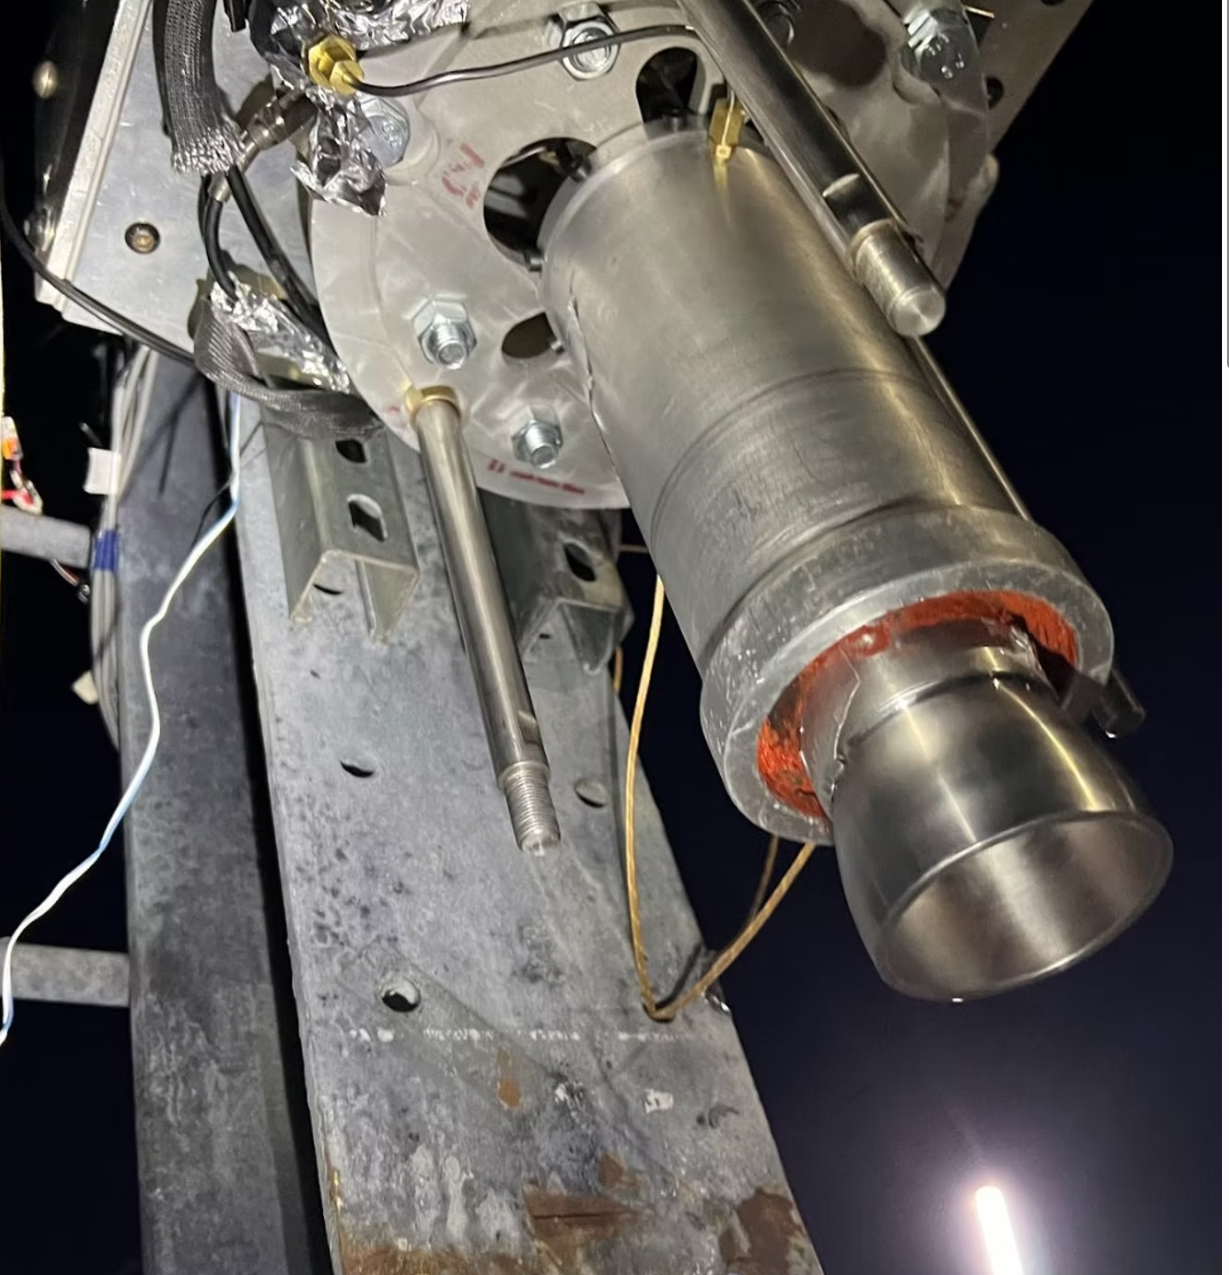
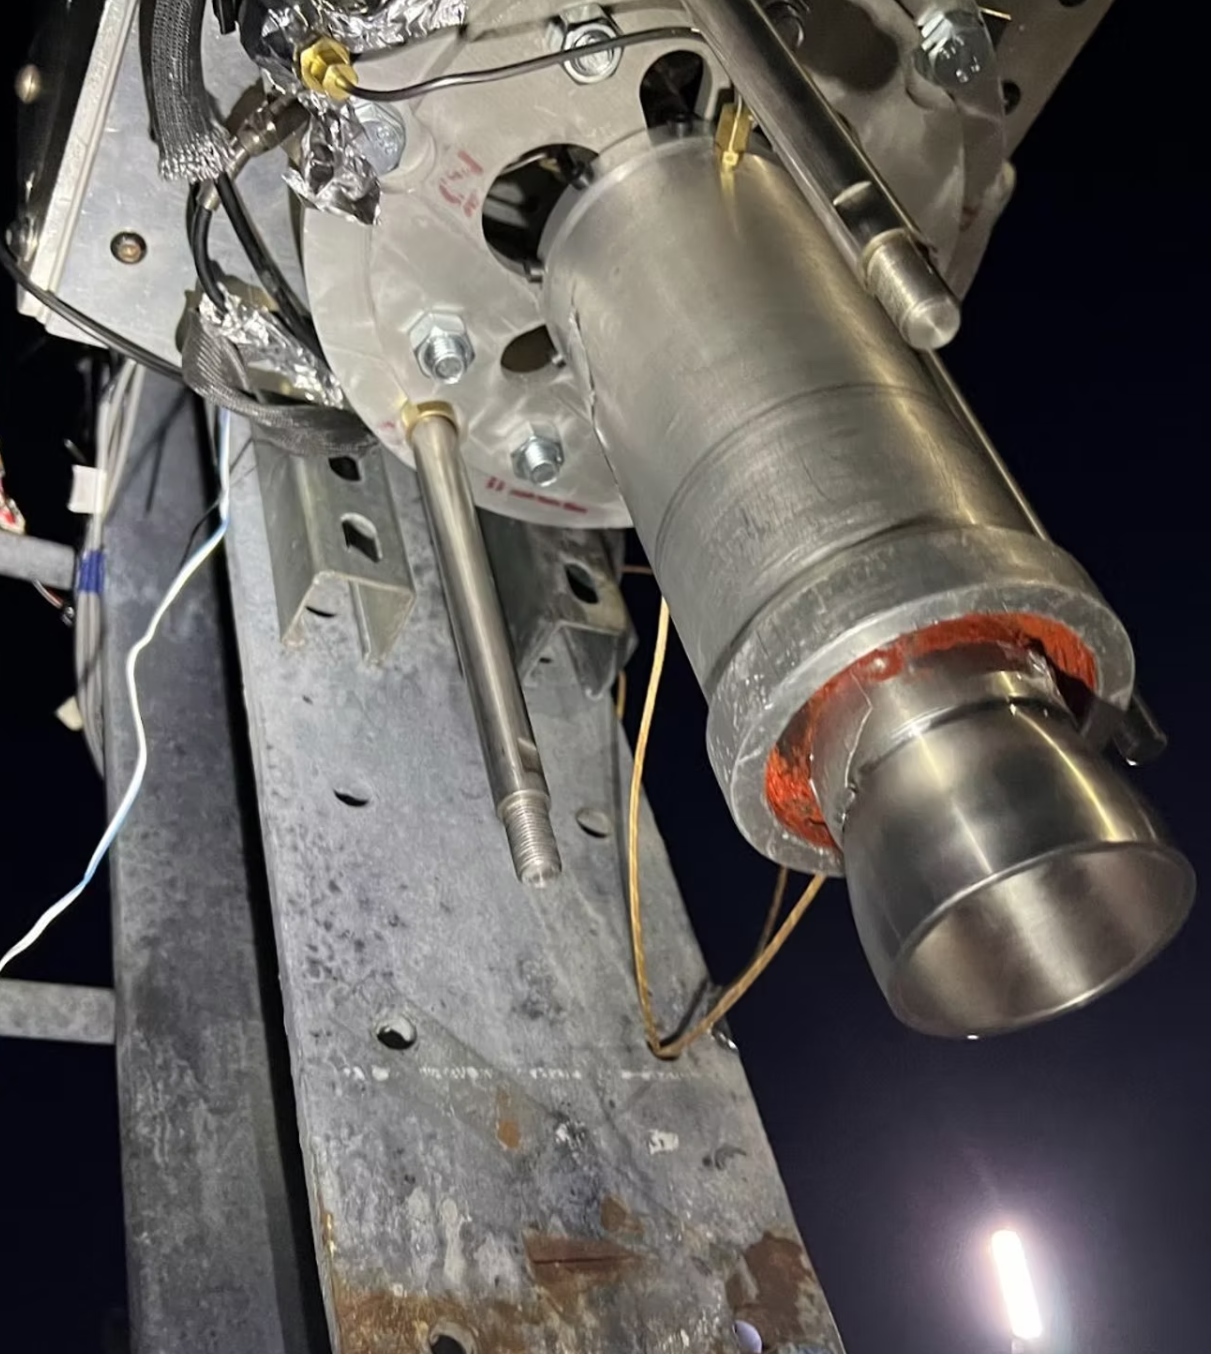
dunk probe pics insert

diff --git a/app/works/projects.ts b/app/works/projects.ts
@@ -328,6 +328,12 @@ export const PROJECTS: Project[] = [
     yearLabel: "2024",
     projectType: "Test Systems & Instrumentation",
     tags: ["Vacuum Hardware", "Cryogenic Instrumentation", "GSE design", "Testing"],
+    cover: "/projects/DUNKPROBE/dunkprobebuild2.PNG",
+    preview: {
+      staticSrc: "/projects/DUNKPROBE/dunkprobebuild2.PNG",
+      hoverSrc: "/projects/DUNKPROBE/dunkprobebuild.PNG",
+      alt: "Dunk Probe preview",
+    },
     overview:
       "Cryogenic dewar probe hardware with vacuum-compatible design, integration, and test procedures.",
     highlights: [
